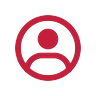
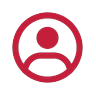
style(ui): 收藏/分享按钮缩至3/4 + tabBar图标恢复至4/5 (v2.0.18); 下载页补iOS提示并指向v2.0.18

Changed region(s): [[0.125, 0.125, 0.875, 0.875]]

diff --git a/scripts/download-page/index.html b/scripts/download-page/index.html
@@ -3,7 +3,7 @@
 <head>
   <meta charset="UTF-8" />
   <meta name="viewport" content="width=device-width, initial-scale=1.0" />
-  <title>道元易学 · Android 下载</title>
+  <title>道元易学 · 下载</title>
   <style>
     * { margin: 0; padding: 0; box-sizing: border-box; }
     body {
@@ -110,6 +110,30 @@
       color: #b22222;
       line-height: 1.8;
     }
+    /* iOS 提示区块 */
+    .ios-box {
+      margin-top: 20px;
+      padding: 16px 20px;
+      background: #f7f7fa;
+      border: 1px solid #e3e3e8;
+      border-radius: 14px;
+      text-align: left;
+    }
+    .ios-box .ios-title {
+      font-size: 14px;
+      font-weight: 600;
+      color: #1a1a1a;
+      margin-bottom: 6px;
+    }
+    .ios-box .ios-text {
+      font-size: 13px;
+      color: #6b6b6b;
+      line-height: 1.7;
+    }
+    .ios-box .ios-text a {
+      color: #dc143c;
+      text-decoration: none;
+    }
     /* 微信内提示遮罩 */
     .wechat-tip {
       position: fixed;
@@ -146,7 +170,7 @@
     <div class="brand">真和盛</div>
     <div class="name">道元易学</div>
     <div class="sub">观天道 · 明人事 · 致中和</div>
-    <div class="version">Android v1.12.29</div>
+    <div class="version">Android v2.0.18</div>
 
     <div class="features">
       <div><span>◆</span>商城：开运饰品 · 香薰禅修 · 文房茶道</div>
@@ -154,10 +178,15 @@
       <div><span>◆</span>社区：易友动态 · 直播讲堂</div>
     </div>
 
-    <a class="btn" id="downloadBtn" href="https://club.zhenhesheng.cn/h5/apk/daoyuan-v1.12.29.apk">下载安卓 APP</a>
+    <a class="btn" id="downloadBtn" href="https://club.zhenhesheng.cn/h5/apk/daoyuan-v2.0.18.apk">下载安卓 APP</a>
     <div class="tip">
       若按钮无法点击，请直接点击下方备用链接<br />
-      <a href="https://club.zhenhesheng.cn/h5/apk/daoyuan-v1.12.29.apk" style="color:#dc143c">直接下载 APK</a>
+      <a href="https://club.zhenhesheng.cn/h5/apk/daoyuan-v2.0.18.apk" style="color:#dc143c">直接下载 APK</a>
+    </div>
+
+    <div class="ios-box">
+      <div class="ios-title">🍎 iOS 版本</div>
+      <div class="ios-text">iOS 版本即将上线，敬请期待。<br />您也可以直接使用 <a href="https://club.zhenhesheng.cn/h5/">道元易学 H5</a> 或微信小程序，体验全部功能。</div>
     </div>
   </div>
 
@@ -172,7 +201,6 @@
 
   <script>
     // 检测微信环境：扫码进入则显示提示
-    var ua = navigator.userAgent.toLowerCase();
     var isInWechat = /micromessenger/i.test(navigator.userAgent);
     if (isInWechat) {
       document.getElementById('wechatTip').classList.add('show');

diff --git a/src/pages-sub/product/detail.vue b/src/pages-sub/product/detail.vue
@@ -414,15 +414,15 @@ function buyNow() {
 
 /* 收藏图标: SVG 红色心形 (data-uri), 未选中用灰度滤镜变灰 */
 .heart-wrap {
-  width: 132rpx;
-  height: 120rpx;
+  width: 99rpx;
+  height: 90rpx;
   display: flex;
   align-items: center;
   justify-content: center;
 }
 .heart {
-  width: 48rpx;
-  height: 48rpx;
+  width: 36rpx;
+  height: 36rpx;
   filter: grayscale(1);
   opacity: 0.5;
   transition: filter 0.2s, opacity 0.2s;
@@ -460,7 +460,7 @@ function buyNow() {
   display: flex;
   flex-direction: column;
   align-items: center;
-  width: 150rpx;
+  width: 112rpx;
 }
 .collect-icon {
   font-size: 40rpx;
@@ -470,7 +470,7 @@ function buyNow() {
   color: #9c1630;
 }
 .collect-label {
-  font-size: 30rpx;
+  font-size: 22rpx;
   color: #55524c;
 }
 /* 分享按钮: 与收藏按钮(.act-collect)宽度/结构/字号完全一致, 保证视觉统一 */
@@ -478,7 +478,7 @@ function buyNow() {
   display: flex;
   flex-direction: column;
   align-items: center;
-  width: 150rpx;
+  width: 112rpx;
   padding: 0;
   margin: 0;
   background: transparent;
@@ -489,16 +489,16 @@ function buyNow() {
   border: none;
 }
 .share-wrap {
-  width: 132rpx;
-  height: 120rpx;
+  width: 99rpx;
+  height: 90rpx;
   display: flex;
   align-items: center;
   justify-content: center;
 }
 /* 分享图标: SVG 转发箭头 (data-uri), 与收藏心形(.heart 48rpx)等大小 */
 .share-icon {
-  width: 48rpx;
-  height: 48rpx;
+  width: 36rpx;
+  height: 36rpx;
 }
 .act-btns {
   flex: 1;
@@ -637,12 +637,12 @@ function buyNow() {
     margin-left: 16px;
   }
   .heart-wrap {
-    width: 96px;
-    height: 84px;
+    width: 72px;
+    height: 63px;
   }
   .heart {
-    width: 36px;
-    height: 36px;
+    width: 27px;
+    height: 27px;
   }
   /* 底部操作栏: 约束在居中容器内, 不横跨整个视口 */
   .action-bar {
@@ -655,26 +655,26 @@ function buyNow() {
     padding-bottom: calc(14px + env(safe-area-inset-bottom));
   }
   .act-collect {
-    width: 108px;
+    width: 81px;
   }
   /* 分享按钮与收藏按钮 PC 端同样保持等宽 */
   .act-share {
-    width: 108px;
+    width: 81px;
   }
   .collect-icon {
     font-size: 28px;
   }
   .collect-label {
-    font-size: 20px;
+    font-size: 15px;
   }
   /* 分享图标 PC 端用绝对 px 覆写, 与收藏心形(.heart 36px)大小一致, 避免 rpx 在宽屏被撑大 */
   .share-wrap {
-    width: 96px;
-    height: 84px;
+    width: 72px;
+    height: 63px;
   }
   .share-icon {
-    width: 36px;
-    height: 36px;
+    width: 27px;
+    height: 27px;
   }
   .act-btns {
     gap: 16px;

diff --git a/src/pages-sub/course/detail.vue b/src/pages-sub/course/detail.vue
@@ -610,19 +610,19 @@ function startLearn() {
   display: flex;
   flex-direction: column;
   align-items: center;
-  width: 150rpx;
+  width: 112rpx;
   flex-shrink: 0;
 }
 .heart-wrap {
-  width: 132rpx;
-  height: 120rpx;
+  width: 99rpx;
+  height: 90rpx;
   display: flex;
   align-items: center;
   justify-content: center;
 }
 .heart {
-  width: 48rpx;
-  height: 48rpx;
+  width: 36rpx;
+  height: 36rpx;
   filter: grayscale(1);
   opacity: 0.5;
   transition: filter 0.2s, opacity 0.2s;
@@ -638,7 +638,7 @@ function startLearn() {
   100% { transform: scale(1); }
 }
 .collect-label {
-  font-size: 30rpx;
+  font-size: 22rpx;
   color: #55524c;
 }
 .collect-label.on {
@@ -646,7 +646,7 @@ function startLearn() {
 }
 /* 分享按钮: 与收藏按钮同规格(150rpx 宽, 132rpx×120rpx 图标位, 30rpx 文字) */
 .buy-share {
-  width: 150rpx;
+  width: 112rpx;
   padding: 0;
   margin: 0 auto 0 0;
   background: transparent;
@@ -662,20 +662,20 @@ function startLearn() {
   border: none;
 }
 .share-wrap {
-  width: 132rpx;
-  height: 120rpx;
+  width: 99rpx;
+  height: 90rpx;
   display: flex;
   align-items: center;
   justify-content: center;
 }
 .share-label {
-  font-size: 30rpx;
+  font-size: 22rpx;
   color: #55524c;
 }
 /* 分享图标: SVG 转发箭头 (data-uri), 与收藏心形(.heart 48rpx)等大小 */
 .share-icon {
-  width: 48rpx;
-  height: 48rpx;
+  width: 36rpx;
+  height: 36rpx;
 }
 /* 立即购买: 实心按钮 + 与文字留出间距 */
 .btn-fill {
@@ -709,30 +709,30 @@ function startLearn() {
   }
   /* 分享图标 PC 端用绝对 px 覆写, 与商品页同一尺寸, 避免 rpx 在宽屏被撑大 */
   .share-wrap {
-    width: 96px;
-    height: 84px;
+    width: 72px;
+    height: 63px;
   }
   .share-icon {
-    width: 36px;
-    height: 36px;
+    width: 27px;
+    height: 27px;
   }
   /* 收藏/分享按钮 PC 端用绝对 px 覆写, 两者等宽, 保证视觉对称 */
   .act-collect {
-    width: 108px;
+    width: 81px;
   }
   .buy-share {
-    width: 108px;
+    width: 81px;
   }
   .heart-wrap {
-    width: 96px;
-    height: 84px;
+    width: 72px;
+    height: 63px;
   }
   .heart {
-    width: 36px;
-    height: 36px;
+    width: 27px;
+    height: 27px;
   }
   .collect-label {
-    font-size: 20px;
+    font-size: 15px;
   }
 }
 @media screen and (min-width: 1440px) {

diff --git a/src/version.js b/src/version.js
@@ -2,7 +2,7 @@
  * 自动生成: 版本与 Git 保持一致 (构建前由 scripts/gen-version.js 更新)
  * 请勿手动修改
  */
-export const APP_VERSION = 'v2.0.17'
+export const APP_VERSION = 'v2.0.18'
 export const APP_COMMIT = 'd48d73f'
 export const APP_BRANCH = 'main'
 export const APP_BUILD_DATE = '2026-10-17'
